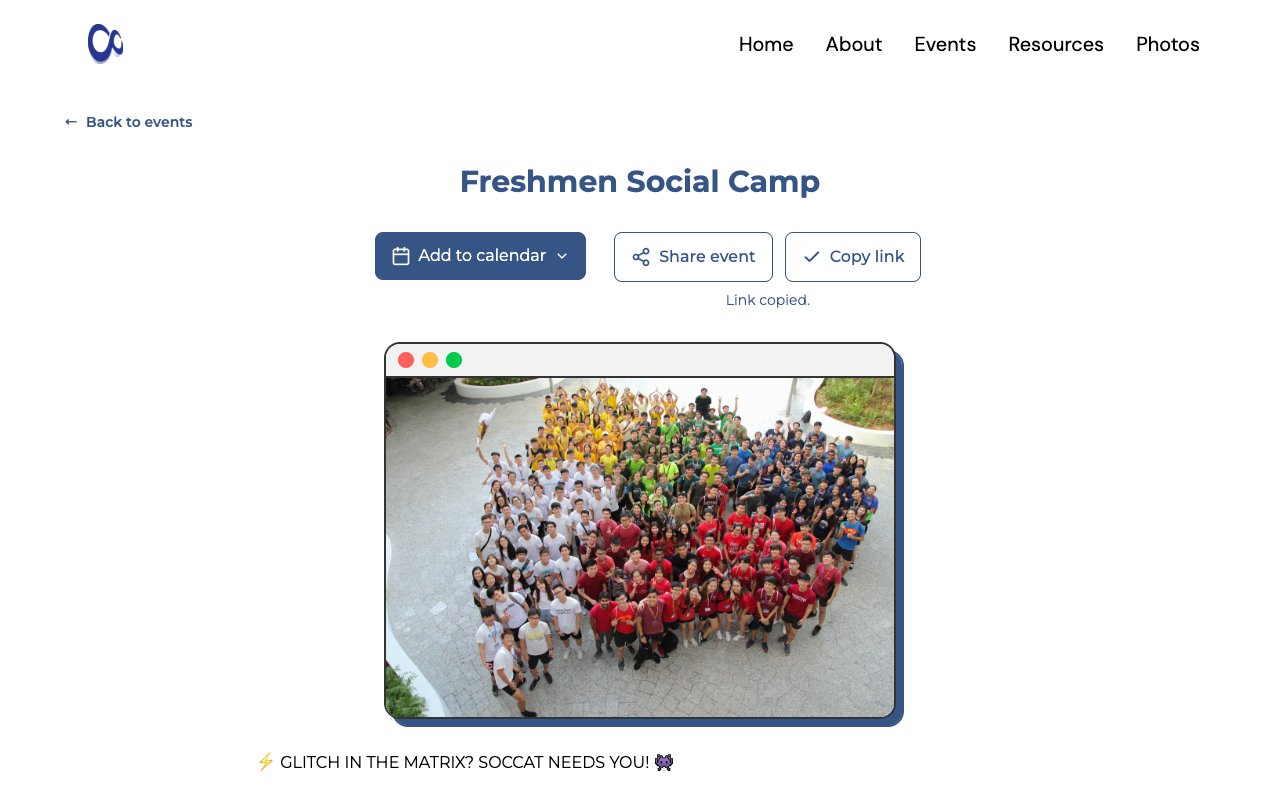
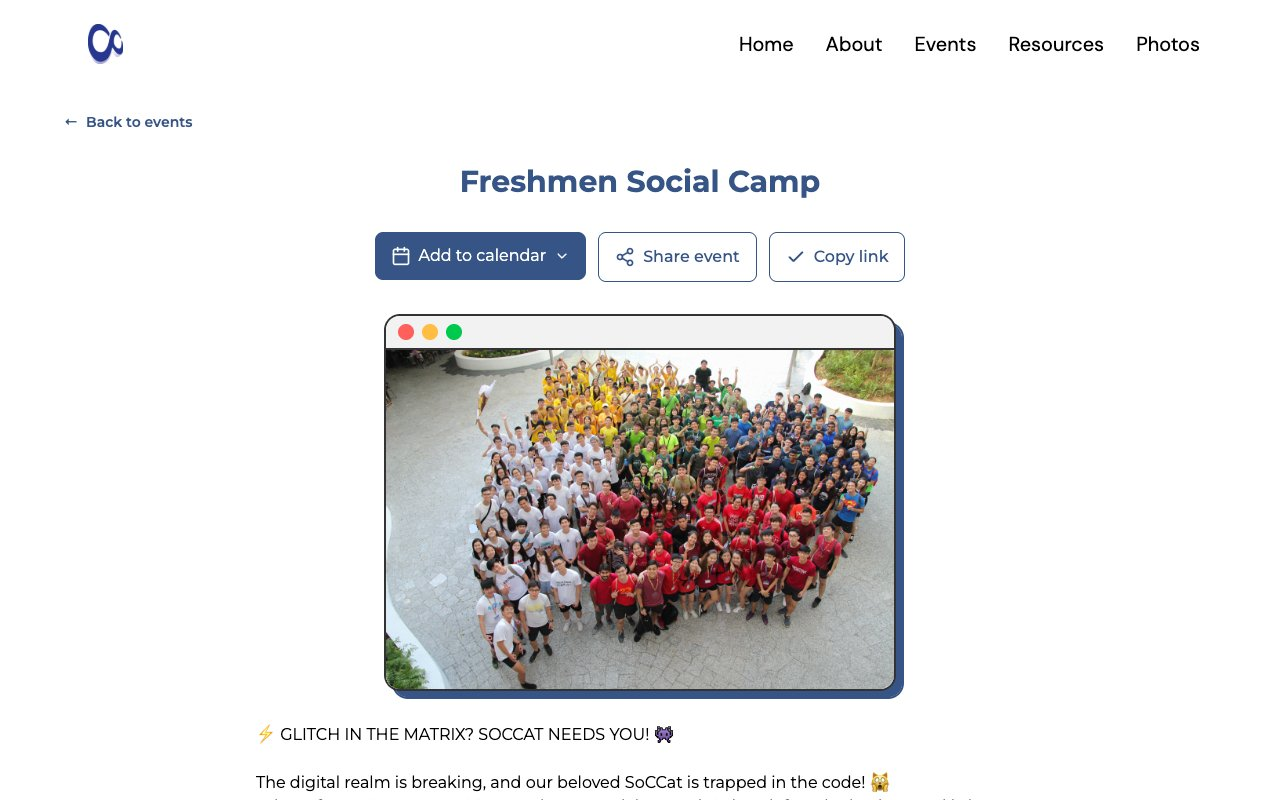
style(events): show only tick for copy confirmation

Changed region(s): [[0.1875, 0.3125, 0.7188, 1.0], [0.2812, 0.6875, 0.3125, 0.7188], [0.2812, 0.625, 0.3125, 0.6562]]

diff --git a/src/pages/events/ShareEvent.tsx b/src/pages/events/ShareEvent.tsx
@@ -58,7 +58,9 @@ function ShareEvent({ title, pageUrl }: ShareEventProps) {
           Copy link
         </button>
       </div>
-      <p className='event-share-status' role='status' aria-live='polite' aria-atomic='true'>{message}</p>
+      <p className={copied ? 'sr-only' : 'event-share-status'} role='status' aria-live='polite' aria-atomic='true'>
+        {message}
+      </p>
       {showLink && (
         <div className='event-share-fallback'>
           <label htmlFor={linkId}>Event link</label>
